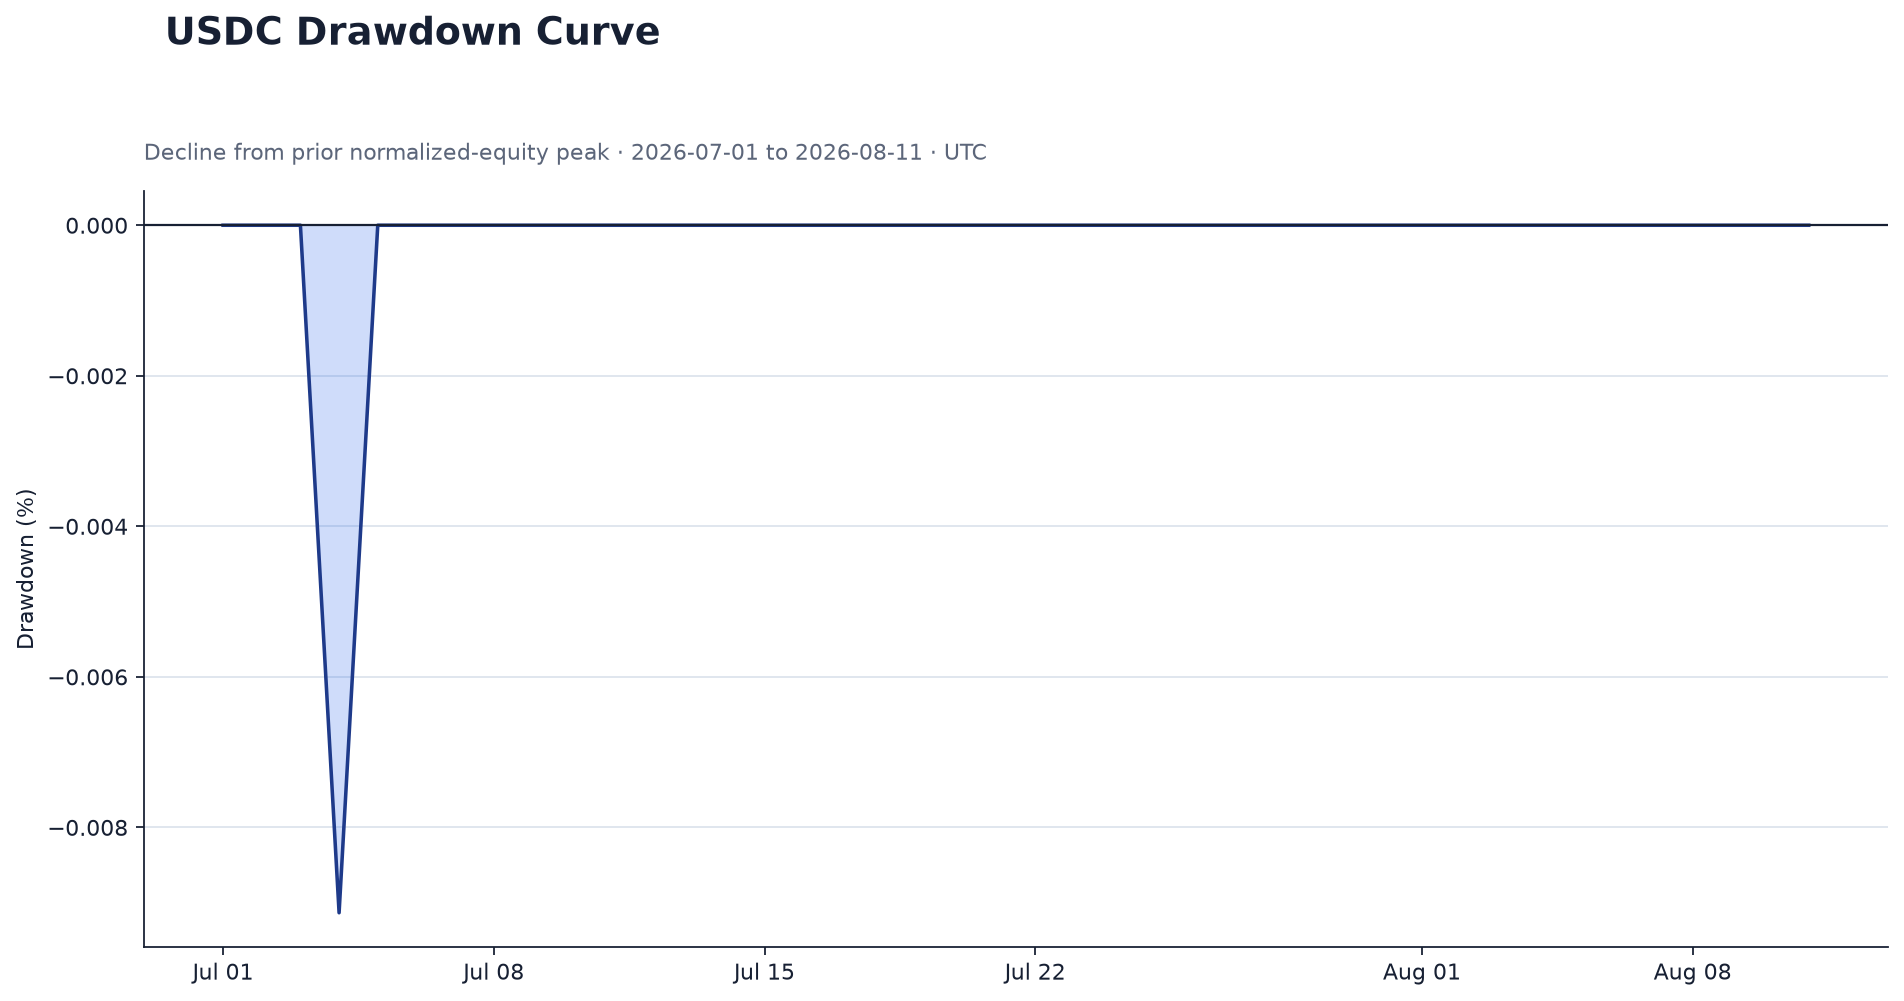
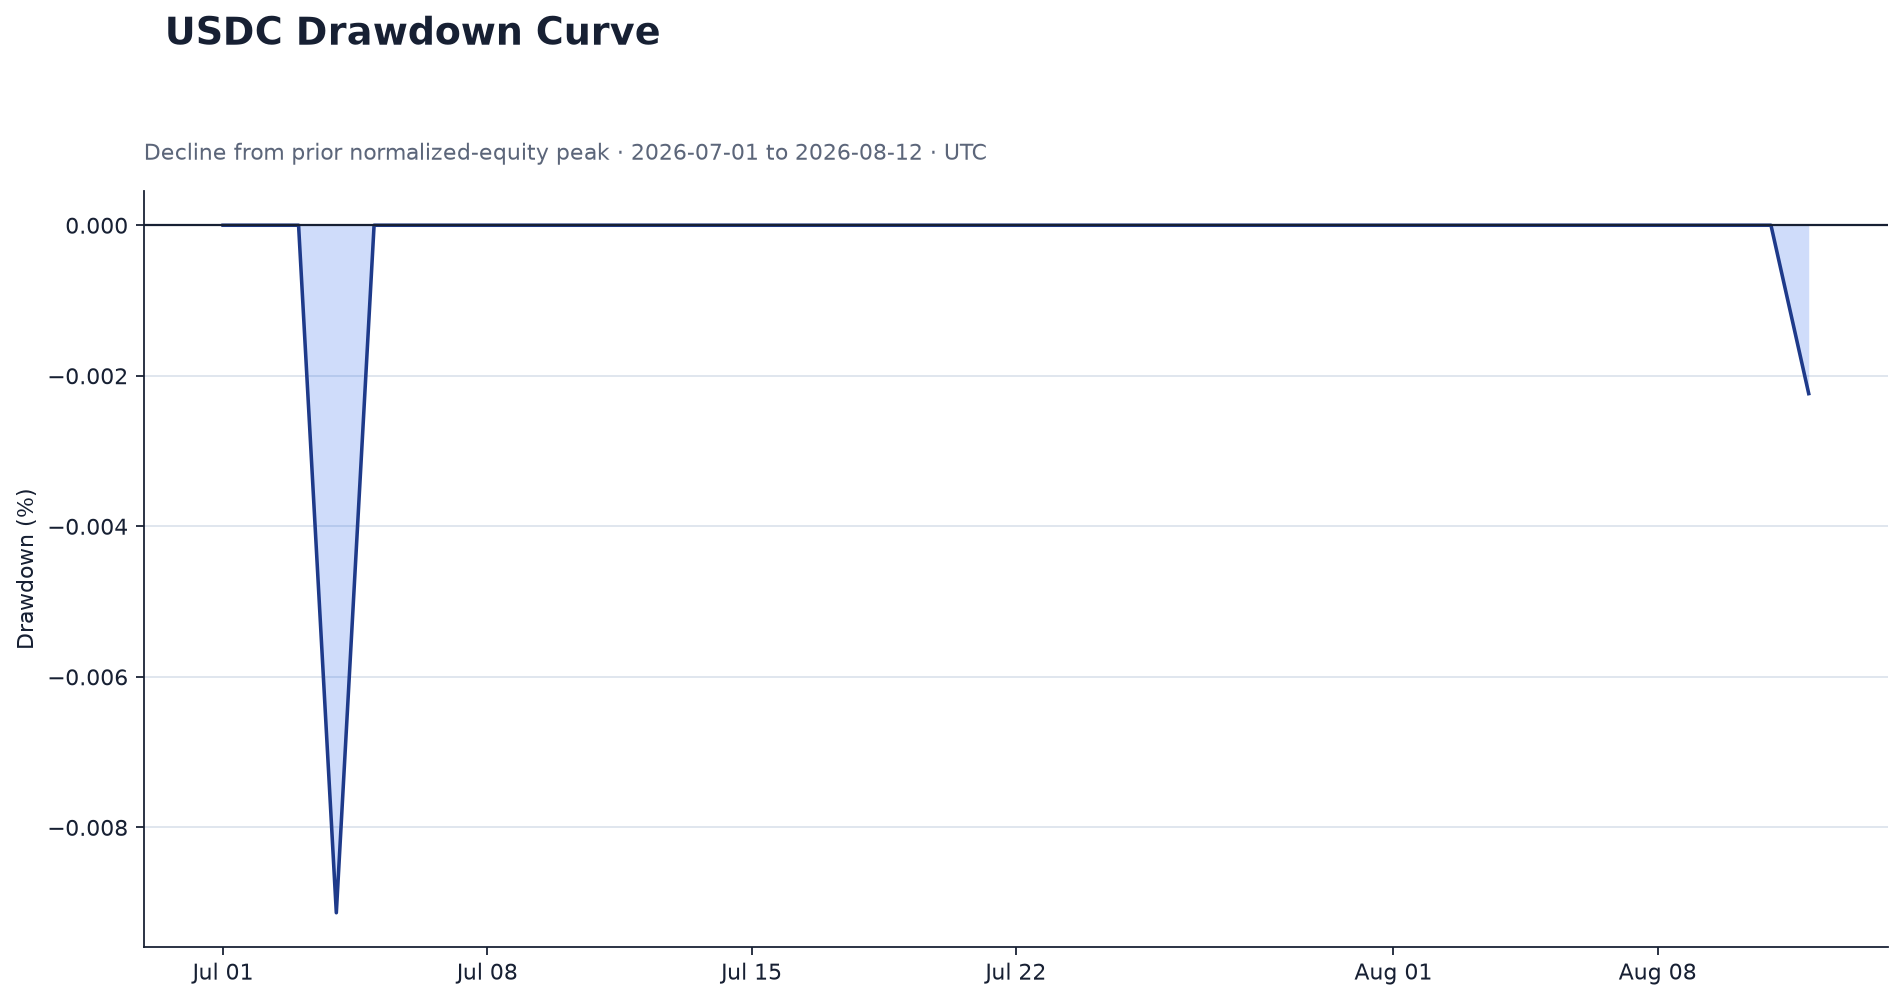
chore: update USDC performance

diff --git a/reports/performance_summary.md b/reports/performance_summary.md
@@ -1,7 +1,7 @@
 # Performance Summary
 
-Generated at: **2026-08-11T00:10:08Z**<br>
-Coverage: **2026-07-01 to 2026-08-11 (UTC)**<br>
+Generated at: **2026-08-12T00:10:08Z**<br>
+Coverage: **2026-07-01 to 2026-08-12 (UTC)**<br>
 Scope: **Daily USDC USD-M Futures realized performance**
 
 Absolute account values are not published. USD-M Futures transfers are excluded from trading return.
@@ -9,30 +9,29 @@ Sharpe and Sortino use private total daily returns including unrealized PnL; unr
 
 | Metric | Value |
 |---|---:|
-| Cumulative Return | 3.32% |
-| Latest Daily Return | 0.00% |
-| Annualized Return | 35.80% |
+| Cumulative Return | 3.38% |
+| Latest Daily Return | -0.00% |
+| Annualized Return | 32.56% |
 | Annualized Volatility | 1.32% |
-| Sharpe Ratio | 5.928025 |
-| Sortino Ratio | 10.519983 |
+| Sharpe Ratio | 5.563156 |
+| Sortino Ratio | 9.819082 |
 | Maximum Drawdown | -0.01% |
-| Calmar Ratio | 3919.585466 |
-| Win Rate | 97.06% |
-| Profit Factor | 1348.188726 |
-| Total Realized Pnl Usdc | 145.896999 |
+| Calmar Ratio | 3564.403352 |
+| Win Rate | 94.29% |
+| Profit Factor | 703.072175 |
+| Total Realized Pnl Usdc | 148.448599 |
 | Total Commission Usdc | -0.075227 |
-| Total Funding Fee Usdc | 1.765906 |
-| Total Net Pnl Usdc | 147.587677 |
-| Number Of Trading Days | 34 |
-| Number Of Trades | 1044 |
-| Valid Return Days | 39 |
-| Excluded Return Days | 3 |
+| Total Funding Fee Usdc | 1.562173 |
+| Total Net Pnl Usdc | 149.935545 |
+| Number Of Trading Days | 35 |
+| Number Of Trades | 1070 |
+| Valid Return Days | 43 |
+| Excluded Return Days | 0 |
 | Annualization Factor | 365 |
 
 ## Warnings and coverage notes
 
 - Non-performance income types were treated as capital adjustments: COIN_SWAP_DEPOSIT
-- 3 day(s) were excluded from ratios because the reconstructed capital base was invalid.
 - Sharpe and Sortino include unrealized PnL and begin on 2026-07-06 because earlier official equity snapshots are unavailable.
 
 ## Definitions
